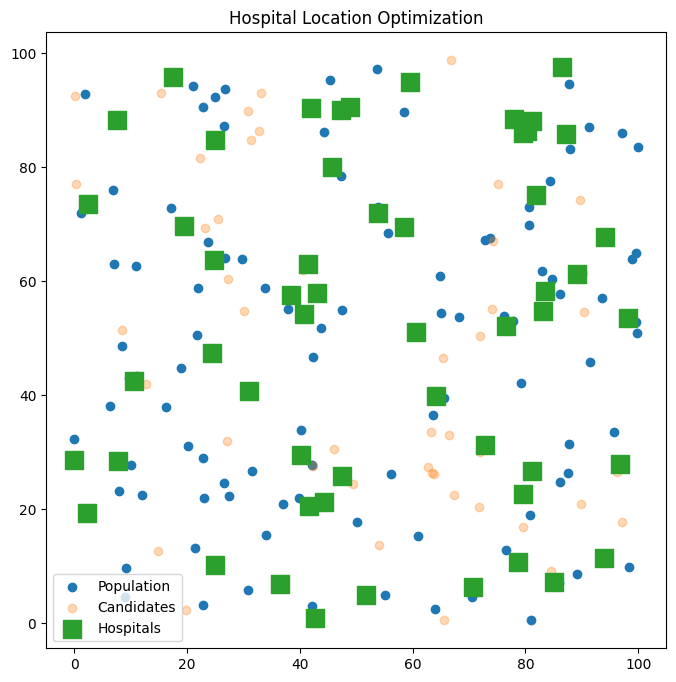
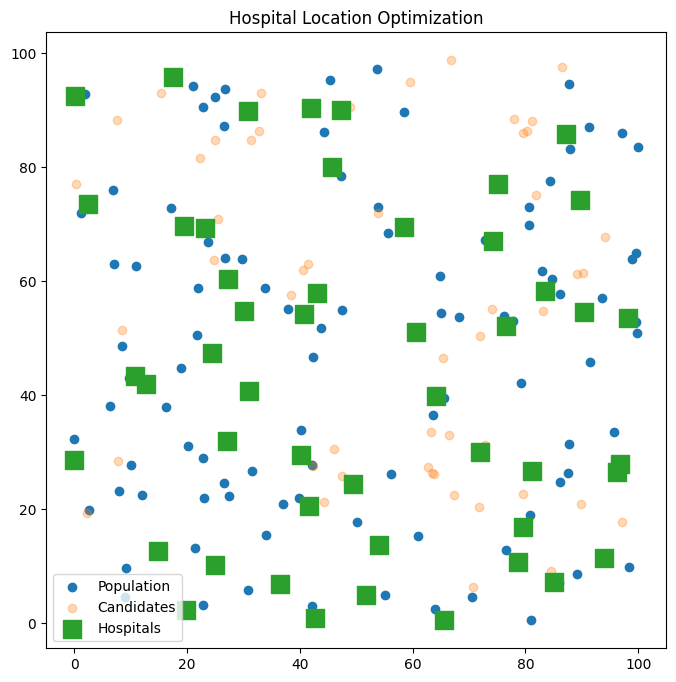
avg and variance added

diff --git a/Simulated_annealing/main.py b/Simulated_annealing/main.py
@@ -1,6 +1,8 @@
 import random
 import numpy as np
 import os
+import time
+import statistics
 
 from data_generator import generate_problem
 from cost_function import build_distance_matrix
@@ -18,27 +20,68 @@ os.makedirs("plots", exist_ok=True)
 
 distance_matrix = build_distance_matrix( population_points, candidates )
 
-lambda_values = [1, 10, 50, 100]
+lambda_values = [1, 10, 50, 100] # hospital costs to test with different trade-offs between travel cost and hospital cost
+
+# number of independent runs to average per lambda
+runs_per_lambda = 5
+
+# ensure plots directory exists for outputs
+os.makedirs("plots", exist_ok=True)
+
+results_csv = os.path.join("plots", "benchmark_results.csv")
+with open(results_csv, "w") as f_out:
+    f_out.write("lambda,avg_cost,var_cost,avg_hospitals,var_hospitals,avg_time,var_time\n")
 
 for lambda_cost in lambda_values:
-    solution, cost, iterations = ( simulated_annealing( distance_matrix, weights, lambda_cost  ))
+    costs = []
+    hospitals_built = []
+    times = []
+    best_overall = None
+    best_cost = float('inf')
 
-    hospitals = np.sum(solution)
+    for run_idx in range(runs_per_lambda):
+        t0 = time.perf_counter()
+        solution, cost, iterations = simulated_annealing(distance_matrix, weights, lambda_cost)
+        t1 = time.perf_counter()
+
+        runtime = t1 - t0
+        hospitals = int(np.sum(solution))
+
+        costs.append(cost)
+        hospitals_built.append(hospitals)
+        times.append(runtime)
+
+        if cost < best_cost:
+            best_cost = cost
+            best_overall = solution.copy()
+
+    avg_cost = statistics.mean(costs)
+    var_cost = statistics.pvariance(costs)
+    avg_hosp = statistics.mean(hospitals_built)
+    var_hosp = statistics.pvariance(hospitals_built)
+    avg_time = statistics.mean(times)
+    var_time = statistics.pvariance(times)
 
     print("\n-----------------------------")
     print(f"Lambda = {lambda_cost}")
     print("-----------------------------")
-    print(f"Hospitals Built: {hospitals}")
-    print(f"Final Cost: {cost:.2f}")
-    print(f"Iterations: {iterations}")
+    print(f"Runs: {runs_per_lambda}")
+    print(f"Avg Hospitals Built: {avg_hosp:.2f}")
+    print(f"Avg Cost: {avg_cost:.2f}")
+    print(f"Avg Time (s): {avg_time:.4f}")
+    print(f"Cost Variance: {var_cost:.4f}")
+    print(f"Hospitals Variance: {var_hosp:.4f}")
+    print(f"Time Variance: {var_time:.6f}")
 
-    plot_solution(
-        population_points,
-        candidates,
-        solution,
-        filename=os.path.join(
-            "plots",
-            f"solution_lambda_{lambda_cost}.png"
-        ),
-        show=False
-    )
+    # save best solution visualization for this lambda
+    if best_overall is not None:
+        plot_solution(
+            population_points,
+            candidates,
+            best_overall,
+            filename=os.path.join("plots", f"solution_lambda_{lambda_cost}.png"),
+            show=False
+        )
+
+    with open(results_csv, "a") as f_out:
+        f_out.write(f"{lambda_cost},{avg_cost:.6f},{var_cost:.6f},{avg_hosp:.6f},{var_hosp:.6f},{avg_time:.6f},{var_time:.6f}\n")
